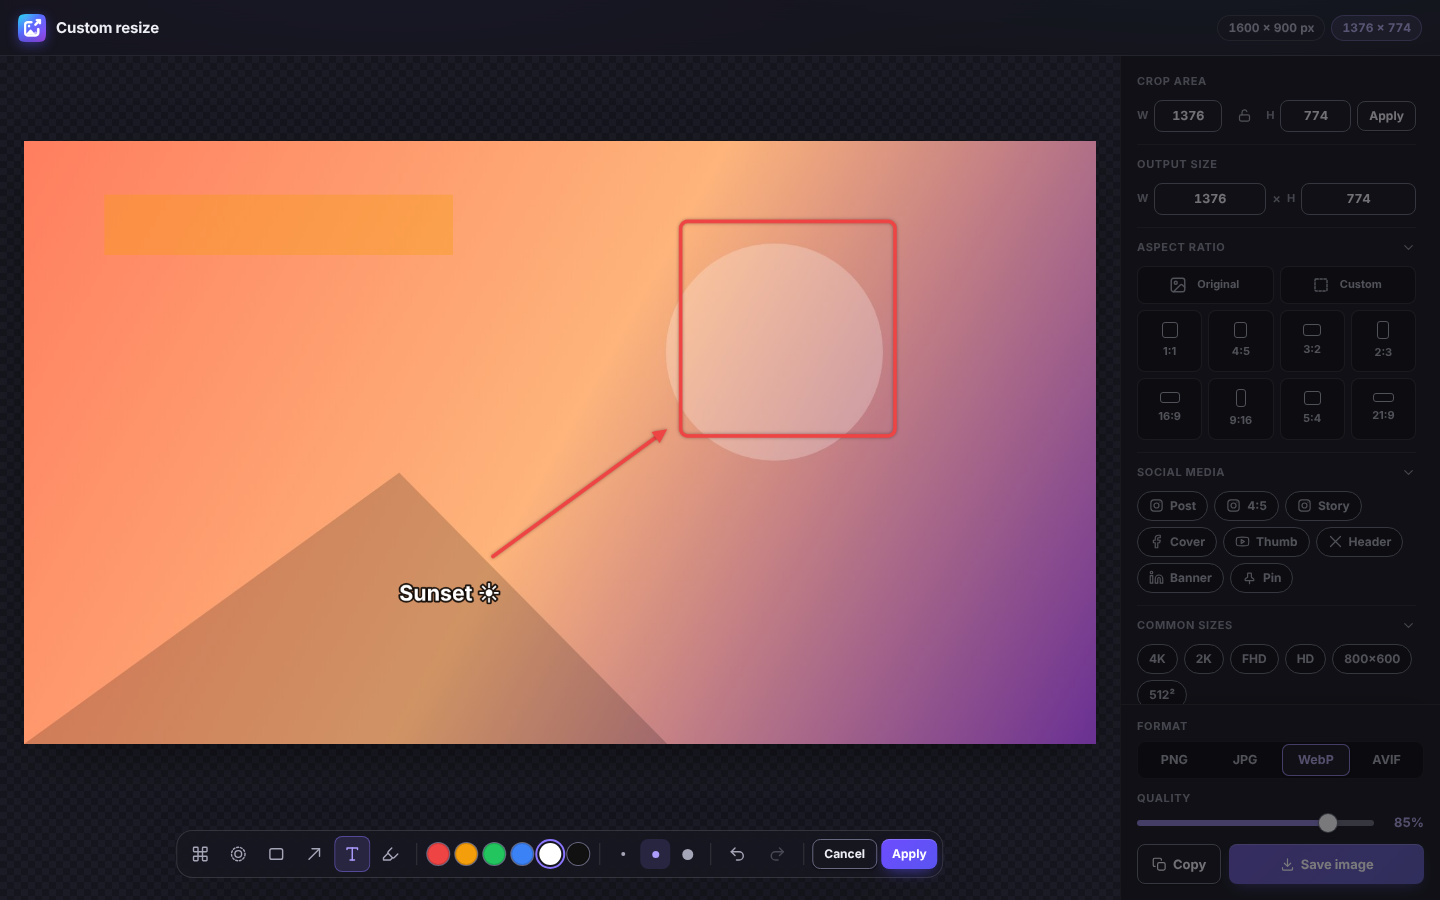
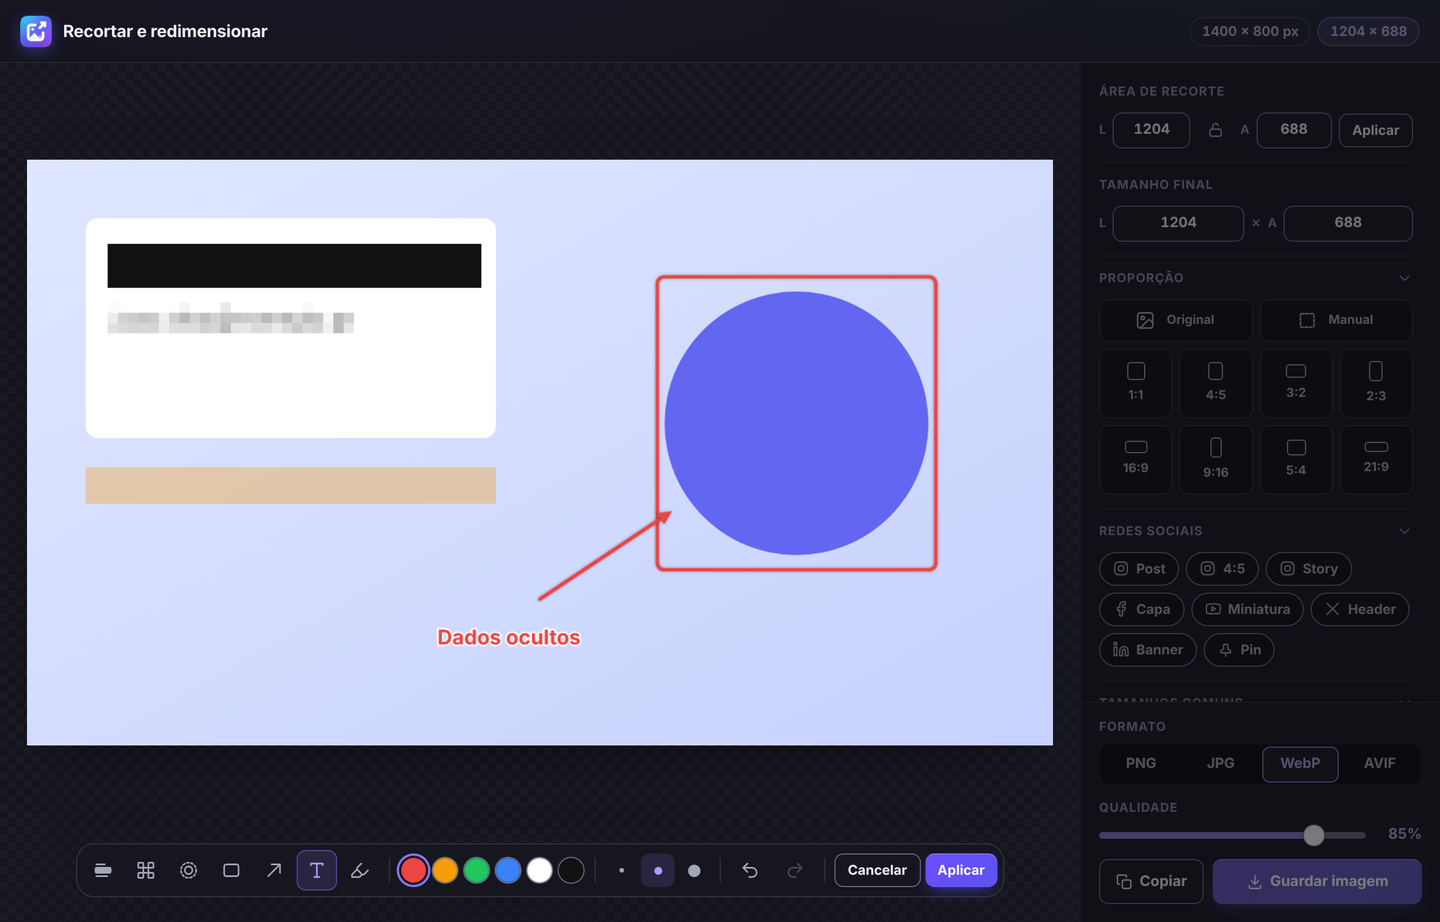
Docs for the audit fixes: privacy, changelog, store justifications
- Privacy policy: automatic requests carry no cookies, download time
  limits, capture tab checks, Redact vs blur/pixelate, 12 h editor
  expiry, Google Lens receives the full image URL.
- Changelog and README updated; new annotate screenshot with Redact.
- docs/STORE_JUSTIFICATIONS.md: texts for the Web Store dashboard.
- e2e: wait for the annotate board to be fitted before drawing.

Claude-Session: https://claude.ai/code/session_01C5vBPVJwonnmePKxiPkJYW

diff --git a/PRIVACY.md b/PRIVACY.md
@@ -1,6 +1,6 @@
 # Privacy Policy — ImageToolkit
 
-**Last updated:** 2026-10-20
+**Last updated:** 2026-10-21
 
 ## Summary
 
@@ -21,7 +21,7 @@ This extension collects **zero** data. Specifically:
 
 All image conversion, resizing, cropping, and optimization happens **entirely locally** in your browser using the Canvas API.
 
-When you use features that work with remote images, the extension fetches those image URLs directly from your browser so it can inspect, convert, copy, resize, or download them. Requests include your normal browser cookies for those image hosts, so images behind a login keep working; ImageToolkit never reads, stores, or transmits those cookies elsewhere.
+When you **ask** for something done with a remote image (save, convert, copy, open in the editor), the extension fetches that image URL directly from your browser. These requests include your normal browser cookies for that image host, so images behind a login keep working; ImageToolkit never reads, stores, or transmits those cookies elsewhere. Every download has a time limit, so a server that stops answering cannot keep it waiting.
 
 ### Automatic requests for previews and metadata
 
@@ -29,7 +29,8 @@ While the panel shows a page's images, the extension **contacts the hosts of tho
 
 - **Lightweight first:** a `HEAD` request or a 1-byte range request, which returns headers only. Size and type checks are sent without cookies.
 - **Limited reads when needed:** if a server gives no size in its headers, the extension reads the start of the image to count its size, at most 2 MB per image and 8 MB in total per request batch, then stops; past that, the size stays unknown.
-- **Previews of protected images:** if a site refuses to show an image directly (hotlink protection), the extension downloads it to display the thumbnail and read its dimensions: at most 40 images, 8 MB each and 48 MB in total per scan. These downloads include your normal cookies for that host, like the user-triggered downloads above.
+- **Previews of protected images:** if a site refuses to show an image directly (hotlink protection), the extension downloads it to display the thumbnail and read its dimensions: at most 40 images, 8 MB each and 48 MB in total per scan, 20 seconds each. These downloads are sent **without cookies**.
+- **No automatic request carries your cookies.** Only the actions you ask for (above) do.
 - At most 100 images per scan are checked for size and 30 for type.
 
 These requests only read data; they are never used to send data anywhere. **Google Lens and the Ko-fi and author links are different**: they never run automatically and only open when you click them (see below).
@@ -39,12 +40,13 @@ These requests only read data; they are never used to send data anywhere. **Goog
 - **Image scanner** — when you open the panel, a script is injected into the current tab (and its frames) to list its images (URLs, dimensions, alt text). Only if you choose **All tabs**, the same happens in every web page open in that window; browser pages and sleeping tabs are skipped. The list stays in the panel; it is never stored or sent anywhere. Very large inline images are left out of the list to keep it fast. While the panel is in use, the script watches the page for newly loaded images and stops after a few idle minutes.
 - **Load all images** — only when you click it, the page is scrolled to its end to load lazy images and then scrolled back; nothing is clicked or submitted.
 - **Screen capture** — only when you start a capture (button, toolbar menu, or keyboard shortcut), the visible part of the tab is captured and opened in the editor. A full-page capture scrolls the page, captures it screen by screen and stitches the result locally, temporarily hiding fixed elements, then restores the page. Captures are not saved unless you save them.
-- **Annotations** made in the editor are drawn locally on your copy of the image.
+- **Capture checks** — a capture belongs to the tab it started in: if another tab comes to the front or the page navigates, it stops, so a screenshot never mixes in another page.
+- **Annotations** made in the editor are drawn locally on your copy of the image. To hide information for sure, use **Redact** (opaque colour): pixelate and blur are visual effects and may leave large text recognisable.
 
 ## Local Storage
 
 - **Settings** are stored with `chrome.storage.sync`, which Chrome may synchronize across your signed-in browsers. ImageToolkit can only read and write its own settings and has no access to your Google Account or other sync data.
-- **Editor handoff** — when an image or capture is opened in the editor, it is kept in the extension's own IndexedDB so the editor window can load it (and reload it). It is deleted as soon as that editor window closes. As a safety net, any entry older than 30 minutes is never shown again and is removed on the next cleanup pass (at startup or when another image is opened in the editor).
+- **Editor handoff** — when an image or capture is opened in the editor, it is kept in the extension's own IndexedDB so the editor window can load it (and reload it). It is deleted as soon as that editor window closes. As a safety net, an editor entry older than 12 hours (any other entry: 30 minutes) is never shown again and is removed on the next cleanup pass (at startup or when another image is opened in the editor).
 - **Large downloads** — files too large to pass between the extension's pages in one message (big ZIPs or edited images) are kept briefly in the same IndexedDB store and removed as soon as the download has started.
 - **Interface state** (grid layout, transparency background, whether filters are open, scan scope) is kept in the extension's local storage.
 - **Upgrades** — version 2.3.5 and earlier passed images to the editor through `chrome.storage.local`; any image left there is deleted when the extension updates or starts.
@@ -57,7 +59,7 @@ The clipboard is only written when you ask to copy an image, a URL list, or an e
 
 ImageToolkit does not contact third-party services automatically. The following user-triggered actions may open external sites:
 
-- **Google Lens** — off by default. If you enable it in Settings and click the search action, the image URL is opened with Google Lens in a new tab.
+- **Google Lens** — off by default. If you enable it in Settings and click the search action, the **full image URL** (including any query string it carries, which on some sites holds an access token) is opened with Google Lens in a new tab, so Google receives it. The image itself is not uploaded by ImageToolkit.
 - **Ko-fi / BlackSpirits** — if you click the support or author links, those pages open in a new tab.
 
 ## Permissions Explained

diff --git a/CHANGELOG.md b/CHANGELOG.md
@@ -6,11 +6,11 @@ The format is based on [Keep a Changelog](https://keepachangelog.com/en/1.1.0/),
 and this project adheres to [Semantic Versioning](https://semver.org/).
 
 
-## [2.5.0] - 2026-10-20
+## [2.5.0] - 2026-10-21
 
 ### Added
 - **Full-page capture**: scrolls and captures the page screen by screen and stitches it locally. Fixed and sticky elements (headers, chat buttons, cookie bars) appear once instead of on every slice, the scrollbar is left out, animations pause, lazy images load, and the page returns to where you were. Progress shows on the toolbar icon and Esc cancels. Very tall pages are scaled down (to 50%) before being cut. From the panel, the toolbar-icon menu or an assignable shortcut.
-- **Annotate in the editor**: pixelate (true block averages) and blur sensitive data, draw boxes, arrows, outlined text and highlights; six colours, three thicknesses, undo/redo and one-key shortcuts. Works on the image as rotated/flipped and changes nothing until Apply.
+- **Annotate in the editor**: **redact** with opaque colour (the way to hide data for sure), pixelate (true block averages) and blur, draw boxes, arrows, outlined text and highlights; six colours, three thicknesses, undo/redo and one-key shortcuts. Pixel blocks and blur grow with the area covered. Works on the image as rotated/flipped and changes nothing until Apply (Ctrl+Enter).
 - **Images inside iframes**, same-origin and cross-origin, are listed with the page's own (and outlined there when selected).
 - **All tabs at once**: a scan scope that lists the images of every web page in the window, without duplicates, with a Tab filter. Each image keeps its page's site and title.
 - **Load all images**: scrolls the page (or the scrolling area of app-like pages) to the end, wakes lazy images, waits for infinite scroll and collects images at every step, so feeds that unload old items lose nothing. Progress bar and Stop.
@@ -18,10 +18,21 @@ and this project adheres to [Semantic Versioning](https://semver.org/).
 
 ### Fixed
 - Tabs left open from an earlier version are scanned correctly after the update (an old scanner left in the page no longer blocks the new one).
+- Full-page capture can no longer hang: every step has a time limit and the whole capture a deadline; a page that stops scrolling ends it (with a notice that it may be incomplete); app-like pages are captured through their inner scrolling area; the page restores itself even if the extension stops midway.
+- Captures stop if another tab comes to the front or the page navigates, so a screenshot never mixes in another page; the visible-tab capture brings its tab to the front first.
+- "Hide duplicates" no longer merges different pictures: `/image?id=1` and `/image?id=2`, or `/Photo.png` and `/photo.png`, are kept apart; only cache-busting and tracking parameters are ignored.
+- Two inline images with the same length and ending are both listed.
+- All tabs: an image shown on several pages belongs to each of them, in the Tab filter and for `{site}`/`{title}`.
+- Stop ends auto-scroll in the tab it runs in, even after switching tabs.
+- The editor knows the page an image or screenshot came from, so `{site}` and `{title}` work there, and screenshots no longer get a made-up `local` domain.
+- Long file names keep their extension when shortened.
+- Editor: the stage takes the shape of a rotated, annotated image; a click outside a text field only confirms it; memory of full-resolution copies is freed at once.
 
 ### Changed
-- Every screen capture respects Chrome's rate limit (two per second) and retries once when refused.
-- Large images handed to the editor travel as Blobs and are shown through `blob:` URLs, without a base64 copy.
+- Automatic requests (thumbnails and dimensions of hotlink-protected images) no longer send cookies; only the actions you ask for do. Every image download has a total and an idle time limit.
+- The offscreen document answers only the service worker, through direct replies; requests time out instead of waiting forever.
+- Every screen capture respects Chrome's rate limit (two per second), queued, and retries once when refused.
+- Large images handed to the editor travel as Blobs and are shown through `blob:` URLs, without a base64 copy; an open editor keeps its image for up to 12 hours.
 
 ## [2.4.1] - 2026-10-20
 

diff --git a/docs/STORE_JUSTIFICATIONS.md b/docs/STORE_JUSTIFICATIONS.md
@@ -1,0 +1,44 @@
+# Chrome Web Store — permission justifications
+
+Ready to paste into the *Privacy practices* tab of the developer dashboard.
+
+## Single purpose
+
+ImageToolkit finds, converts, edits and saves the images of the pages you visit: it lists a page's images, converts and resizes them locally, captures the screen, and lets you crop and annotate the result before saving.
+
+## Permission justifications
+
+**`<all_urls>` (host permission)**
+The user can use ImageToolkit on any website: it lists the images of the page the user opens it on, and fetches an image the user asks to save, convert, copy or edit, wherever it is hosted (images are often on CDNs other than the page's own domain). It also captures the visible tab for screenshots. Narrowing it to `activeTab` would break the side panel (which follows tab changes), the "All tabs" scope, images inside cross-origin iframes and downloads from image CDNs. No data is sent anywhere: everything is processed locally.
+
+**`scripting`**
+Injects, on demand only, the image scanner into the page (and its frames) when the panel is opened, the area-selection overlay when a capture starts, and the scrolling helper for "Load all images" and full-page capture. No remote code: every injected script ships in the package.
+
+**`downloads`**
+Saves converted images, edited images and ZIP files to the user's Downloads folder.
+
+**`contextMenus`**
+Adds the "Save image as…" right-click menu on images and the capture actions on the toolbar icon.
+
+**`storage`**
+Saves the user's preferences (`chrome.storage.sync`) and short-lived state (`chrome.storage.session`).
+
+**`offscreen`**
+Runs the Canvas API in the background for conversion, stitching full-page captures and writing to the clipboard from a service worker.
+
+**`clipboardWrite`**
+Copies an image or a list of image URLs when the user asks.
+
+**`notifications`**
+Confirms saves and copies started from the right-click menu, and reports errors (can be turned off in Settings).
+
+**`sidePanel`**
+Shows the extension as a docked side panel.
+
+## Remote code
+
+No. All JavaScript is included in the package; nothing is loaded from the network.
+
+## Data usage
+
+ImageToolkit collects no user data. Tick none of the data categories. Certify: not sold, not used for unrelated purposes, not used for creditworthiness.

diff --git a/README.md b/README.md
@@ -31,7 +31,7 @@ The mark is a single continuous image frame that opens into an export arrow: fin
   <img src="docs/screenshots/editor-dark.png" alt="Editor with crop presets" width="860">
 </p>
 <p align="center">
-  <img src="docs/screenshots/editor-annotate-dark.png" alt="Editor: annotate with boxes, arrows, text, highlight, blur and pixelate" width="860">
+  <img src="docs/screenshots/editor-annotate-dark.png" alt="Editor: annotate with redact, pixelate, box, arrow, highlight and text" width="860">
 </p>
 
 ## ✨ Features
@@ -61,7 +61,7 @@ Capture an **area** (with an optional 3/5/10-second delay), the **visible page**
 ### ✂ Editor
 Crop, rotate and flip with presets for aspect ratios, common resolutions, social networks (Instagram, Facebook, YouTube, X, LinkedIn, Pinterest), TMDB and TheTVDB. Pick the output size and format, then **Save** (`Ctrl/⌘ + S`) or **Copy** (`Ctrl/⌘ + C`) the result.
 
-**Annotate** to redact or mark up before saving: **pixelate** (true block averages, nothing readable survives) and **blur** sensitive data, draw **boxes**, **arrows**, **text** (outlined so it reads on any background) and **highlights**, in six colours and three thicknesses, with undo/redo and one-key shortcuts (P B R A T H). Marks scale with the image, and nothing changes until you press Apply.
+**Annotate** to redact or mark up before saving: **redact** with opaque colour (the sure way to hide data), **pixelate** (true block averages) and **blur** as softer effects, draw **boxes**, **arrows**, **text** (outlined so it reads on any background) and **highlights**, in six colours and three thicknesses, with undo/redo and one-key shortcuts (X P B R A T H). Marks scale with the image, and nothing changes until you press Apply (Ctrl+Enter).
 
 ### 📋 Copy & Paste
 Copy any image to the clipboard as PNG, ready to paste into Slack, Discord, Figma or any app. Paste an image (or an image URL) anywhere in the panel with **Ctrl/⌘ + V** to open it in Tools, or drag one in from a web page.
